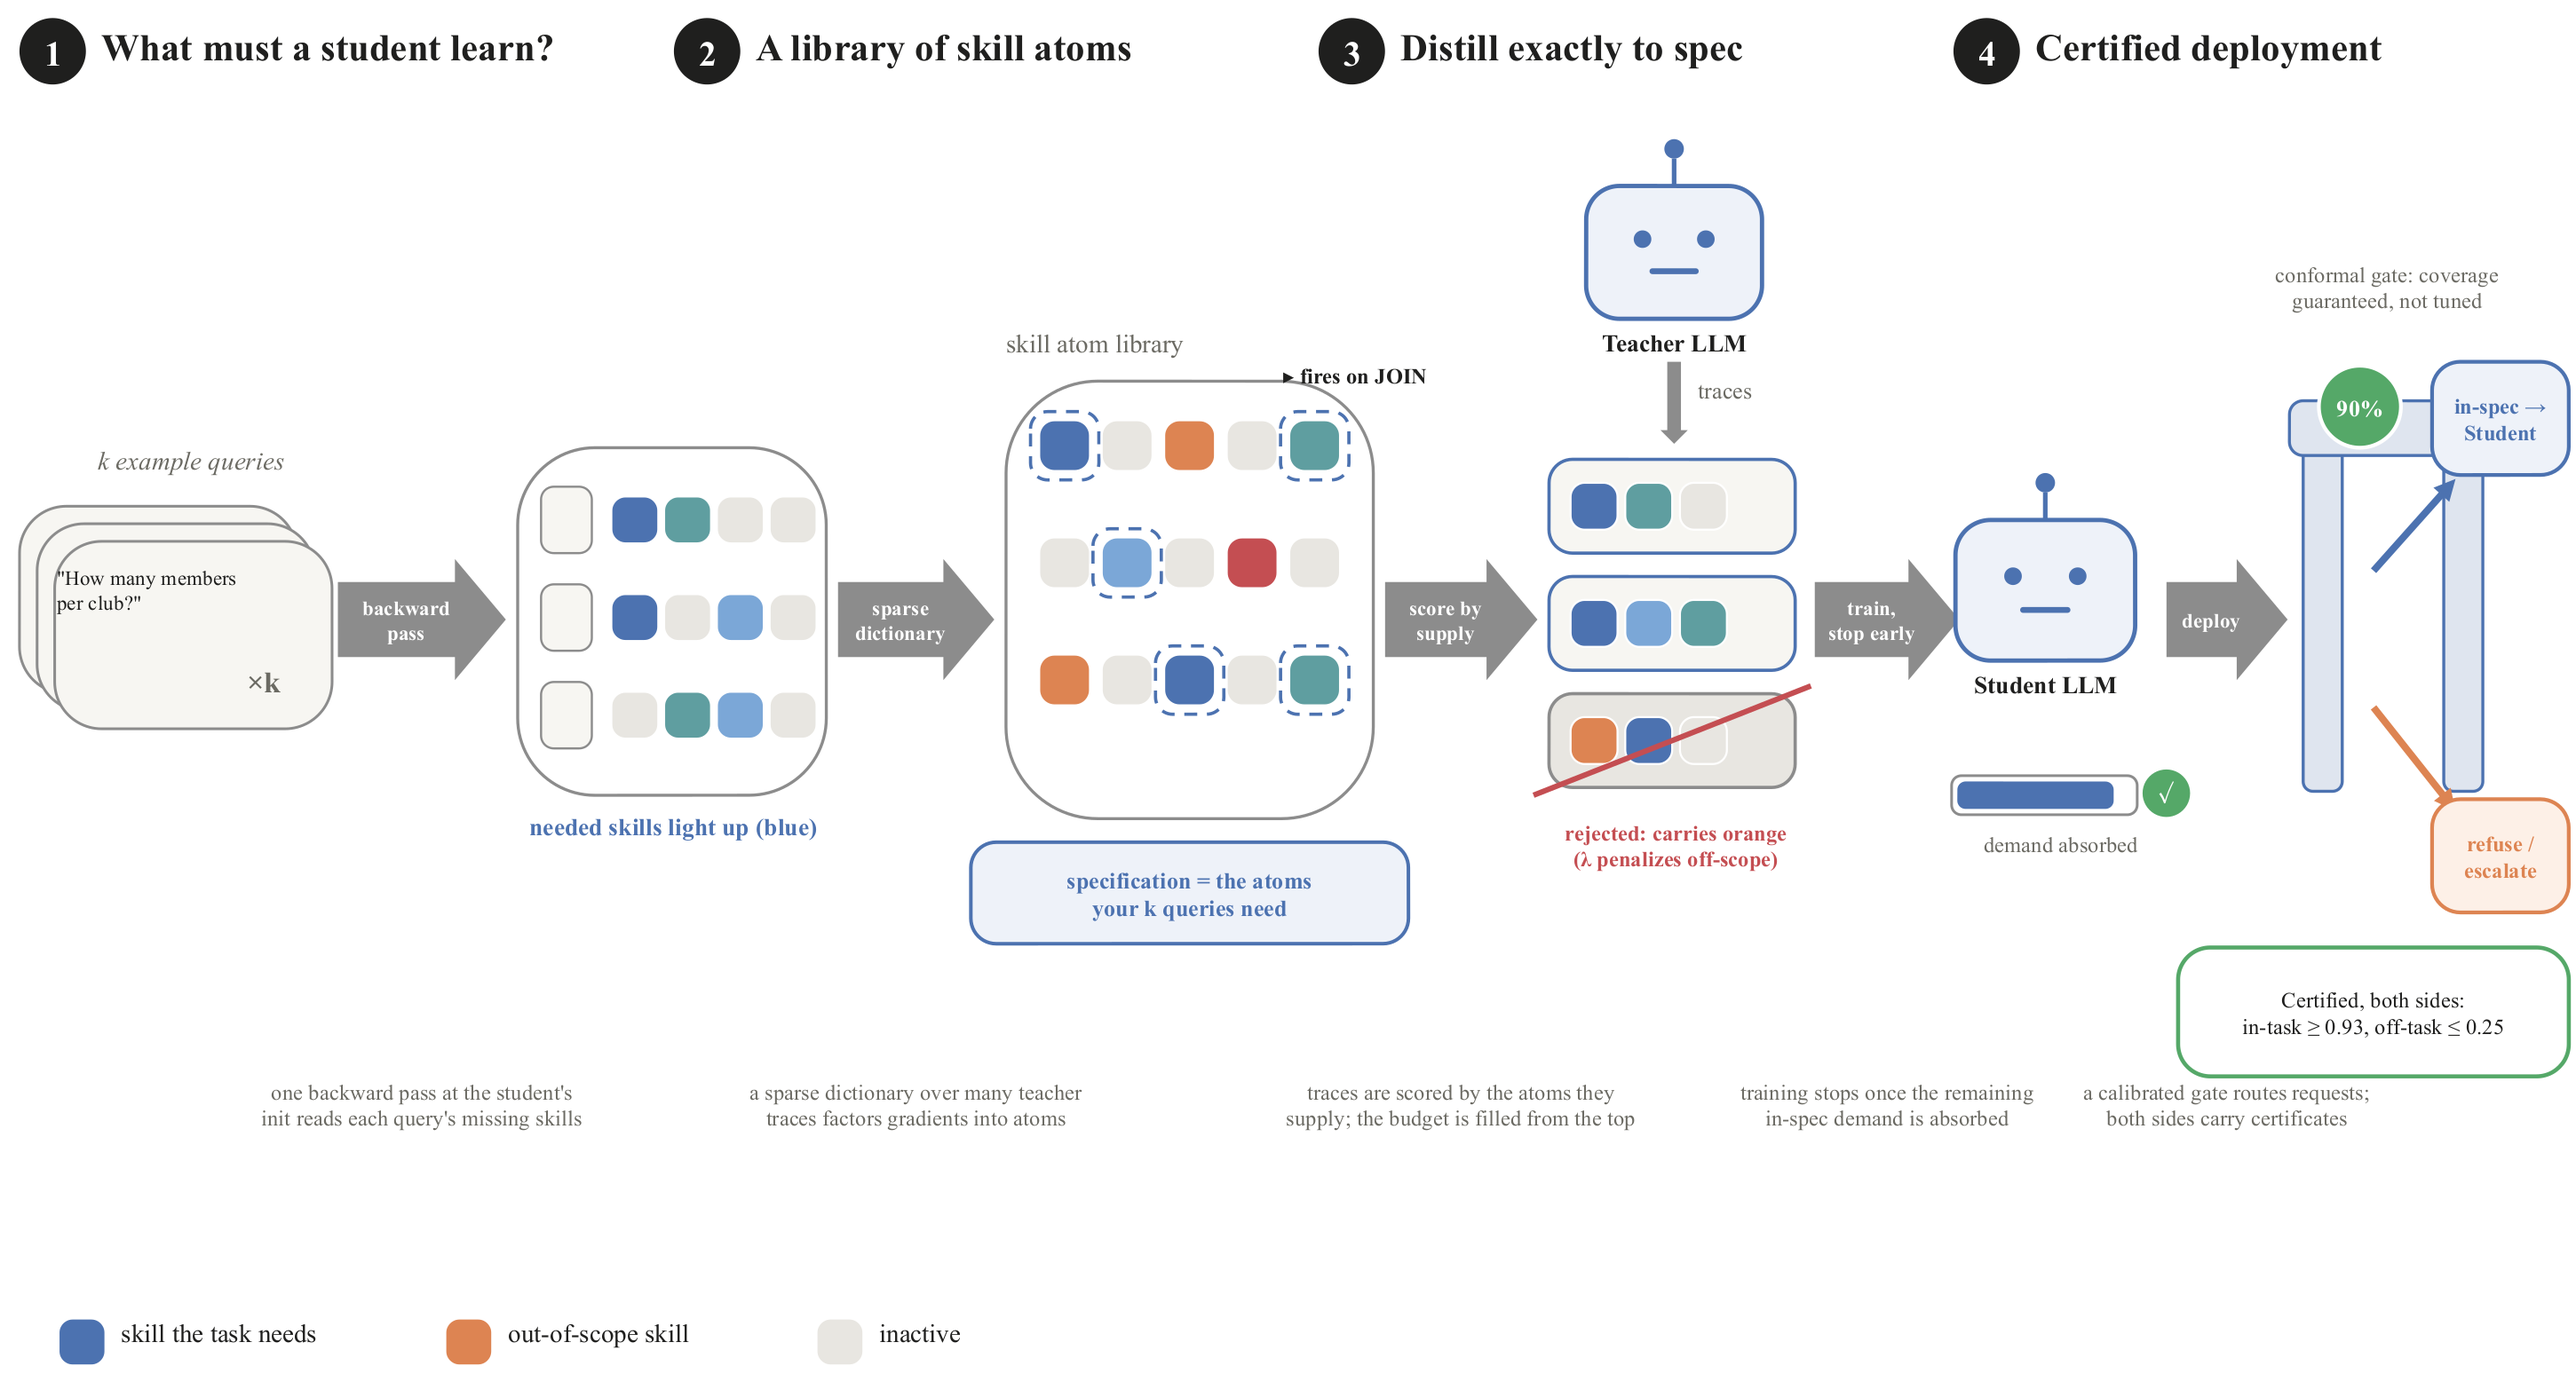
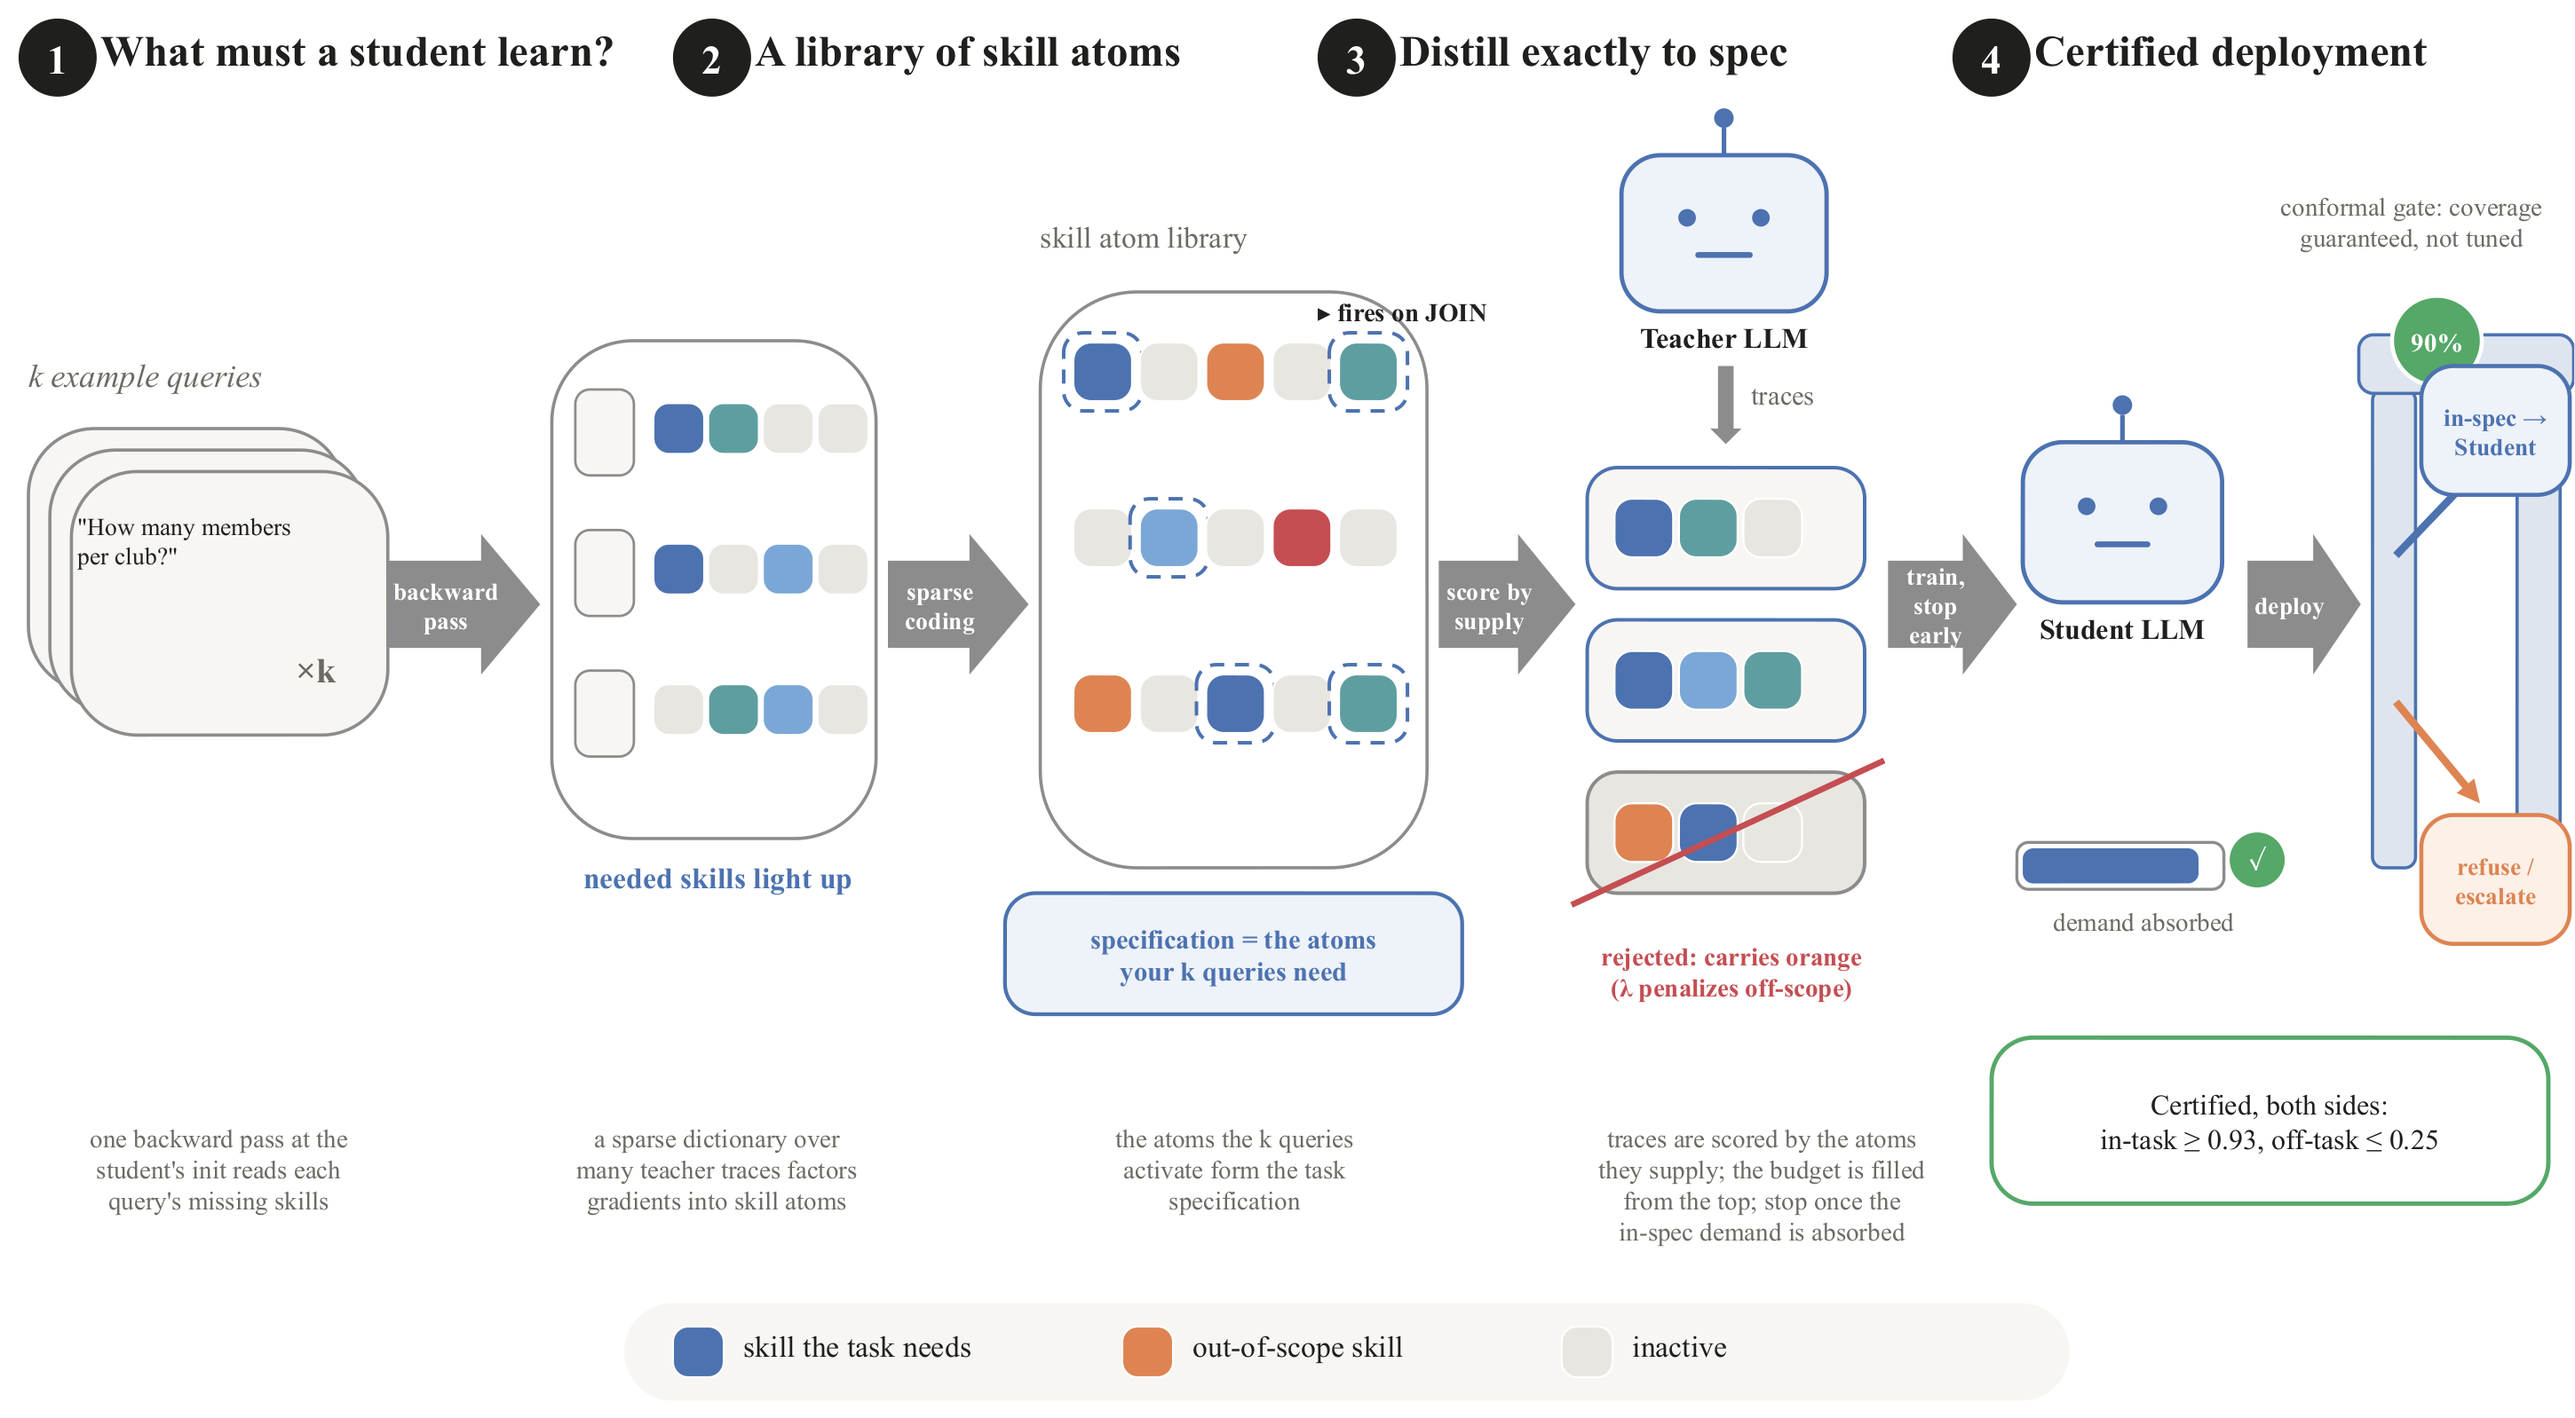
pipeline v6.1: canvas-filling layout (larger elements/fonts, legend pill, merged captions)

diff --git a/tools/make_pipeline_pptx.py b/tools/make_pipeline_pptx.py
@@ -37,7 +37,7 @@ prs.slide_height = In(7.5)
 slide = prs.slides.add_slide(prs.slide_layouts[6])
 SH = slide.shapes
 FONT = "Times New Roman"
-SPINE = 3.30  # y center of the flow
+SPINE = 3.20  # y center of the flow
 
 
 def no_shadow(shape):
@@ -124,9 +124,9 @@ def conn(x0, y0, x1, y1, color, w=2.2, arrow=True):
     return c
 
 
-def spine_arrow(x, w, text, h=0.62):
+def spine_arrow(x, w, text, h=0.72):
     a = box(x, SPINE - h / 2, w, h, GRAY, None, shape=MSO_SHAPE.RIGHT_ARROW,
-            radius=None, text=text, size=7.5, tcolor=WHITE, bold=True)
+            radius=None, text=text, size=9, tcolor=WHITE, bold=True)
     a.adjustments[0] = 0.62
     a.adjustments[1] = 0.42
     return a
@@ -152,9 +152,9 @@ def chip(cx, cy, w, h, ec, name, size=9.5):
 
 
 def stage_chip(x, n, claim, w=3.2):
-    box(x, 0.22, 0.34, 0.34, TEXT, None, shape=MSO_SHAPE.OVAL, radius=None,
-        text=n, size=13, tcolor=WHITE, bold=True)
-    label(x + 0.42, 0.24, w, 0.34, claim, size=14, color=TEXT, bold=True,
+    box(x, 0.20, 0.40, 0.40, TEXT, None, shape=MSO_SHAPE.OVAL, radius=None,
+        text=n, size=15, tcolor=WHITE, bold=True)
+    label(x + 0.42, 0.22, w, 0.38, claim, size=16, color=TEXT, bold=True,
           align=PP_ALIGN.LEFT)
 
 
@@ -166,118 +166,119 @@ stage_chip(10.15, "4", "Certified deployment")
 
 # ---------------------------------------------------------------- node A
 for i in range(3):
-    box(0.25 + i * 0.09, 2.72 + i * 0.09, 1.42, 0.96, CARD, GRAY, lw=1.0)
-label(0.28, 2.40, 1.7, 0.28, "k example queries", size=9.5, color=MUTED,
-      italic=True)
-label(0.44, 3.02, 1.28, 0.6, '"How many members\nper club?"', size=7.5,
+    box(0.30 + i * 0.11, 2.30 + i * 0.11, 1.62, 1.35, CARD, GRAY, lw=1.2)
+label(0.30, 1.92, 2.0, 0.32, "k example queries", size=12, color=MUTED,
+      italic=True, align=PP_ALIGN.LEFT)
+label(0.55, 2.72, 1.5, 0.8, '"How many members\nper club?"', size=9,
       color=TEXT, align=PP_ALIGN.LEFT)
-label(1.30, 3.52, 0.4, 0.28, "×k", size=11, color=MUTED, bold=True)
+label(1.52, 3.42, 0.5, 0.34, "×k", size=13, color=MUTED, bold=True)
 
-spine_arrow(1.88, 0.86, "backward\npass")
+spine_arrow(2.14, 0.78, "backward\npass")
 
 # ---------------------------------------------------------------- node B
-box(2.80, 2.42, 1.58, 1.78, WHITE, GRAY, lw=1.1)
+box(2.98, 1.85, 1.66, 2.55, WHITE, GRAY, lw=1.2)
 rows = [[IN1, IN2, PALE, PALE], [IN1, PALE, IN3, PALE], [PALE, IN2, IN3, PALE]]
 for r, cols in enumerate(rows):
-    y = 2.62 + r * 0.50
-    box(2.92, y, 0.26, 0.34, CARD, GRAY, lw=0.8)
+    y = 2.10 + r * 0.72
+    box(3.10, y, 0.30, 0.44, CARD, GRAY, lw=0.9)
     for j, c in enumerate(cols):
-        tile(3.28 + j * 0.27, y + 0.05, c)
-label(2.72, 4.28, 1.75, 0.5, "needed skills light up (blue)", size=9,
+        tile(3.50 + j * 0.28, y + 0.07, c, s=0.26)
+label(2.88, 4.50, 1.9, 0.34, "needed skills light up", size=11,
       color=IN1, bold=True)
 
-spine_arrow(4.44, 0.80, "sparse\ndictionary")
+spine_arrow(4.70, 0.72, "sparse\ncoding")
 
 # ---------------------------------------------------------------- node C
-box(5.30, 2.08, 1.88, 2.24, WHITE, GRAY, lw=1.1)
+box(5.48, 1.60, 1.98, 2.95, WHITE, GRAY, lw=1.2)
 atoms = [IN1, PALE, OUT1, PALE, IN2,
          PALE, IN3, PALE, OUT2, PALE,
          OUT1, PALE, IN1, PALE, IN2]
 for i, c in enumerate(atoms):
     r, cc = divmod(i, 5)
-    x = 5.47 + cc * 0.32
-    y = 2.28 + r * 0.60
-    tile(x, y, c, s=0.26)
+    x = 5.65 + cc * 0.34
+    y = 1.86 + r * 0.85
+    tile(x, y, c, s=0.30)
     if c in (IN1, IN2, IN3):
-        box(x - 0.045, y - 0.045, 0.35, 0.35, None, IN1, lw=1.2,
+        box(x - 0.05, y - 0.05, 0.40, 0.40, None, IN1, lw=1.3,
             dash="dash", radius=0.25)
-label(5.30, 1.80, 1.3, 0.28, "skill atom library", size=9.5, color=MUTED, align=PP_ALIGN.LEFT)
-label(6.72, 1.98, 1.5, 0.26, "▸ fires on JOIN", size=8, color=TEXT,
+label(5.48, 1.22, 1.6, 0.30, "skill atom library", size=11, color=MUTED,
+      align=PP_ALIGN.LEFT)
+label(6.90, 1.62, 1.5, 0.28, "▸ fires on JOIN", size=9.5, color=TEXT,
       bold=True, align=PP_ALIGN.LEFT)
-box(5.12, 4.44, 2.24, 0.52, INBG, IN1, lw=1.3,
-    text="specification = the atoms\nyour k queries need", size=8.5,
+box(5.30, 4.68, 2.34, 0.62, INBG, IN1, lw=1.4,
+    text="specification = the atoms\nyour k queries need", size=10,
     tcolor=IN1, bold=True)
 
-spine_arrow(7.24, 0.78, "score by\nsupply")
+spine_arrow(7.52, 0.70, "score by\nsupply")
 
 # ---------------------------------------------------------------- node D
-chip(8.72, 1.42, 0.9, 0.68, IN1, "Teacher LLM", size=9)
-box(8.65, 1.98, 0.14, 0.42, GRAY, None, shape=MSO_SHAPE.DOWN_ARROW,
+chip(8.98, 1.30, 1.05, 0.80, IN1, "Teacher LLM", size=10.5)
+box(8.91, 1.98, 0.16, 0.40, GRAY, None, shape=MSO_SHAPE.DOWN_ARROW,
     radius=None)
-label(8.84, 2.05, 1.0, 0.26, "traces", size=8.5, color=MUTED,
+label(9.12, 2.04, 1.0, 0.28, "traces", size=10, color=MUTED,
       align=PP_ALIGN.LEFT)
 cards = [([IN1, IN2, PALE], True), ([IN1, IN3, IN2], True),
          ([OUT1, IN1, PALE], False)]
 for i, (comp, keep) in enumerate(cards):
-    y = 2.48 + i * 0.60
+    y = 2.50 + i * 0.78
     ec = IN1 if keep else GRAY
-    box(8.08, y, 1.26, 0.48, CARD if keep else PALE, ec, lw=1.2)
+    box(8.28, y, 1.42, 0.62, CARD if keep else PALE, ec, lw=1.3)
     for j, c in enumerate(comp):
-        tile(8.19 + j * 0.28, y + 0.12, c, s=0.24)
+        tile(8.42 + j * 0.33, y + 0.16, c, s=0.30)
     if not keep:
-        conn(8.00, y + 0.52, 9.42, y - 0.04, OUT2, w=2.0, arrow=False)
-label(7.78, 4.32, 1.9, 0.5, "rejected: carries orange\n(λ penalizes off-scope)",
-      size=8, color=OUT2, bold=True)
+        conn(8.20, y + 0.68, 9.80, y - 0.06, OUT2, w=2.2, arrow=False)
+label(8.02, 4.92, 2.0, 0.6, "rejected: carries orange\n(λ penalizes off-scope)",
+      size=9.5, color=OUT2, bold=True)
 
-spine_arrow(9.44, 0.74, "train,\nstop early")
+spine_arrow(9.82, 0.66, "train,\nstop early")
 
 # ---------------------------------------------------------------- node E
-chip(10.62, SPINE - 0.15, 0.92, 0.72, IN1, "Student LLM", size=9)
-box(10.14, 4.10, 0.95, 0.2, WHITE, GRAY, lw=1.0)
-box(10.17, 4.13, 0.80, 0.14, IN1, None, radius=0.3)
-box(11.11, 4.06, 0.26, 0.26, GREEN, WHITE, lw=1.2, shape=MSO_SHAPE.OVAL,
-    radius=None, text="✓", size=9, tcolor=WHITE, bold=True)
-label(9.9, 4.38, 1.6, 0.26, "demand absorbed", size=8, color=MUTED)
+chip(11.02, SPINE - 0.42, 1.02, 0.82, IN1, "Student LLM", size=10.5)
+box(10.48, 4.42, 1.06, 0.24, WHITE, GRAY, lw=1.1)
+box(10.51, 4.45, 0.90, 0.18, IN1, None, radius=0.3)
+box(11.56, 4.36, 0.30, 0.30, GREEN, WHITE, lw=1.3, shape=MSO_SHAPE.OVAL,
+    radius=None, text="✓", size=10, tcolor=WHITE, bold=True)
+label(10.28, 4.74, 1.7, 0.28, "demand absorbed", size=9.5, color=MUTED)
 
-spine_arrow(11.24, 0.62, "deploy")
+spine_arrow(11.66, 0.58, "deploy")
 
 # ---------------------------------------------------------------- node F
-gx = 11.94
-box(gx, 2.42, 0.20, 1.76, GATE, IN1, lw=1.1)
-box(gx + 0.72, 2.42, 0.20, 1.76, GATE, IN1, lw=1.1)
-box(gx - 0.07, 2.18, 1.06, 0.28, GATE, IN1, lw=1.1)
-box(gx + 0.08, 2.00, 0.42, 0.42, GREEN, WHITE, lw=1.4, shape=MSO_SHAPE.OVAL,
-    radius=None, text="90%", size=8.5, tcolor=WHITE, bold=True)
-label(11.42, 1.46, 1.9, 0.5, "conformal gate: coverage\nguaranteed, not tuned",
-      size=8, color=MUTED)
-conn(12.30, 3.05, 12.72, 2.58, IN1, w=2.6)
-conn(12.30, 3.75, 12.72, 4.28, OUT1, w=2.6)
-box(12.60, 1.98, 0.70, 0.58, INBG, IN1, lw=1.4, text="in-spec →\nStudent",
-    size=8, tcolor=IN1, bold=True)
-box(12.60, 4.22, 0.70, 0.58, OUTBG, OUT1, lw=1.4, text="refuse /\nescalate",
-    size=8, tcolor=OUT1, bold=True)
-box(11.30, 4.98, 2.0, 0.66, WHITE, GREEN, lw=1.5,
+gx = 12.30
+box(gx, 2.10, 0.22, 2.45, GATE, IN1, lw=1.2)
+box(gx + 0.74, 2.10, 0.22, 2.45, GATE, IN1, lw=1.2)
+box(gx - 0.07, 1.82, 1.10, 0.30, GATE, IN1, lw=1.2)
+box(gx + 0.10, 1.62, 0.46, 0.46, GREEN, WHITE, lw=1.5, shape=MSO_SHAPE.OVAL,
+    radius=None, text="90%", size=9.5, tcolor=WHITE, bold=True)
+label(11.55, 1.08, 1.9, 0.55, "conformal gate: coverage\nguaranteed, not tuned",
+      size=9.5, color=MUTED)
+conn(12.42, 2.95, 12.85, 2.50, IN1, w=2.8)
+conn(12.42, 3.70, 12.85, 4.22, OUT1, w=2.8)
+box(12.55, 1.98, 0.76, 0.66, INBG, IN1, lw=1.5, text="in-spec →\nStudent",
+    size=9, tcolor=IN1, bold=True)
+box(12.55, 4.28, 0.76, 0.66, OUTBG, OUT1, lw=1.5, text="refuse /\nescalate",
+    size=9, tcolor=OUT1, bold=True)
+box(10.35, 5.42, 2.85, 0.85, WHITE, GREEN, lw=1.6,
     text="Certified, both sides:\nin-task ≥ 0.93, off-task ≤ 0.25",
-    size=8, tcolor=TEXT)
+    size=10.5, tcolor=TEXT)
 
 # captions under the spine: the full clause for each transition
-for cx, txt in [(2.31, "one backward pass at the student's\ninit reads each query's missing skills"),
-                (4.84, "a sparse dictionary over many teacher\ntraces factors gradients into atoms"),
-                (7.63, "traces are scored by the atoms they\nsupply; the budget is filled from the top"),
-                (9.81, "training stops once the remaining\nin-spec demand is absorbed"),
-                (11.55, "a calibrated gate routes requests;\nboth sides carry certificates")]:
-    label(cx - 1.05, 5.65, 2.1, 0.5, txt, size=8, color=MUTED)
+for cx, txt in [(1.25, "one backward pass at the\nstudent's init reads each\nquery's missing skills"),
+                (3.80, "a sparse dictionary over\nmany teacher traces factors\ngradients into skill atoms"),
+                (6.45, "the atoms the k queries\nactivate form the task\nspecification"),
+                (9.15, "traces are scored by the atoms\nthey supply; the budget is filled\nfrom the top; stop once the\nin-spec demand is absorbed")]:
+    label(cx - 1.05, 5.85, 2.15, 0.75, txt, size=9.5, color=MUTED)
 
 # ---------------------------------------------------------------- legend
-lx = 0.45
-tile(lx, 6.88, IN1)
-label(lx + 0.32, 6.87, 1.7, 0.28, "skill the task needs", size=9.5,
+lx = 3.6
+box(lx - 0.25, 6.78, 7.4, 0.5, CARD, None, radius=0.5)
+tile(lx, 6.90, IN1, s=0.26)
+label(lx + 0.36, 6.90, 1.75, 0.3, "skill the task needs", size=11,
       color=TEXT, align=PP_ALIGN.LEFT)
-tile(lx + 1.98, 6.88, OUT1)
-label(lx + 2.30, 6.87, 1.7, 0.28, "out-of-scope skill", size=9.5, color=TEXT,
+tile(lx + 2.30, 6.90, OUT1, s=0.26)
+label(lx + 2.66, 6.90, 1.7, 0.3, "out-of-scope skill", size=11, color=TEXT,
       align=PP_ALIGN.LEFT)
-tile(lx + 3.88, 6.88, PALE)
-label(lx + 4.20, 6.87, 1.2, 0.28, "inactive", size=9.5, color=TEXT,
+tile(lx + 4.55, 6.90, PALE, s=0.26)
+label(lx + 4.91, 6.90, 1.2, 0.3, "inactive", size=11, color=TEXT,
       align=PP_ALIGN.LEFT)
 
 prs.save("paper/figs/fig1_pipeline.pptx")
